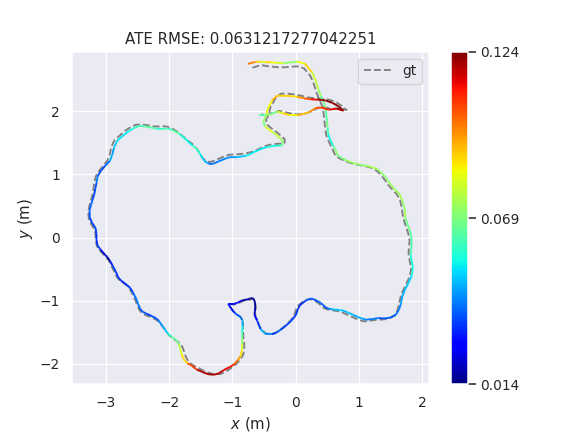
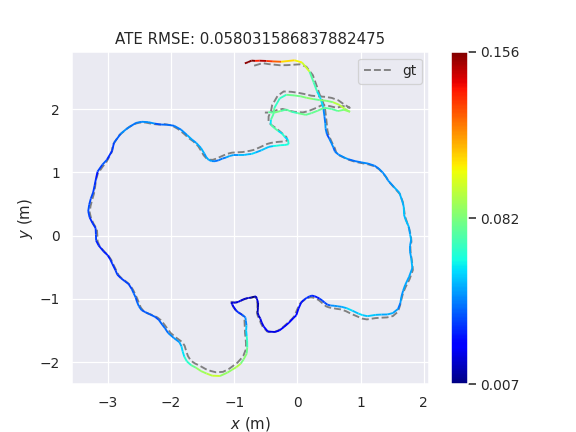
[docs] fix slam eval results table

diff --git a/README.md b/README.md
@@ -493,8 +493,8 @@ We tested on the TUM (NARROW FOV) dataset as of now, where we see that optimal S
 
 | Version         | Map | ATE ↓     | LPIPS ↓  | SSIM ↑   | PSNR ↑   | FPS ↑   |
 | --------------- | --- | --------- | -------- | -------- | -------- | ------- |
-| Original        | ![tum_origslam](assets/slam_results/tum_original_slam_traj.png)    | 0.058     | 0.36     | 0.75     | 21.7     | **4.1** |
-| Optimal         | ![tum_optislam](assets/slam_results/tum_optimal_slam_traj.png)    | 0.063     | 0.44     | 0.71     | 19.8     | 0.54    |
+| Original        | ![tum_origslam](assets/slam_results/tum_original_slam_traj.png)    | 0.063     | 0.44     | 0.71     | 19.8     | **4.1** |
+| Optimal         | ![tum_optislam](assets/slam_results/tum_optimal_slam_traj.png)    | 0.058    | 0.36     | 0.75     | 21.7     | 0.54    |
 | Optimal + Depth | ![tum_ptislam_depth](assets/slam_results/tum_optimal_plus_depth_slam_traj.png)    | **0.017** | **0.23** | **0.82** | **23.4** | 0.43    |
 
 ## Acknowledgements
